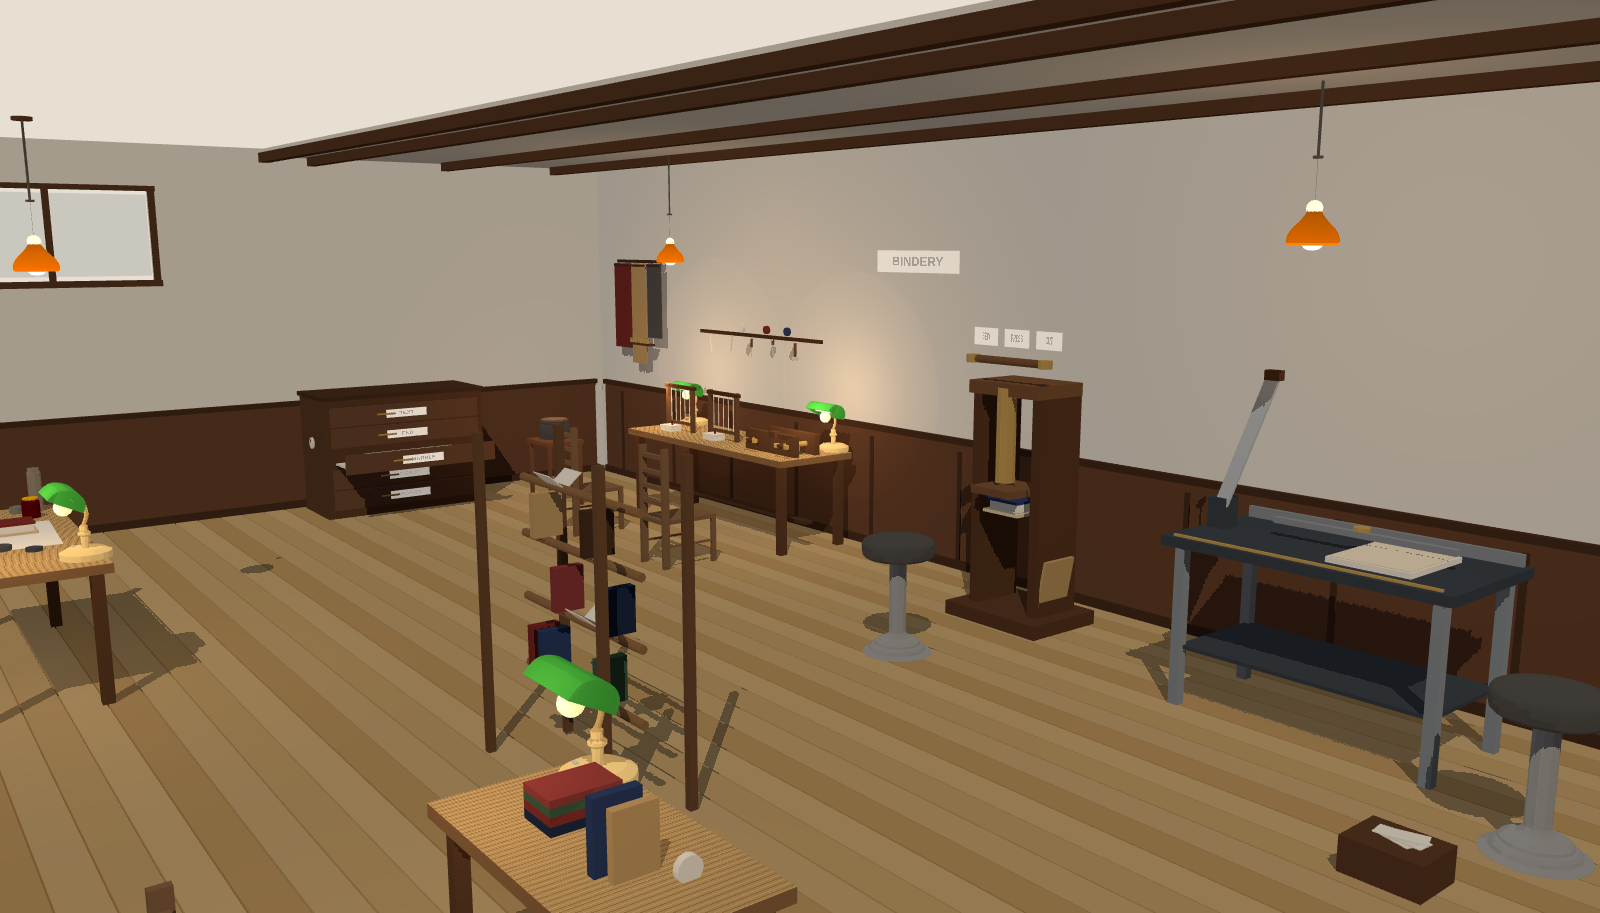
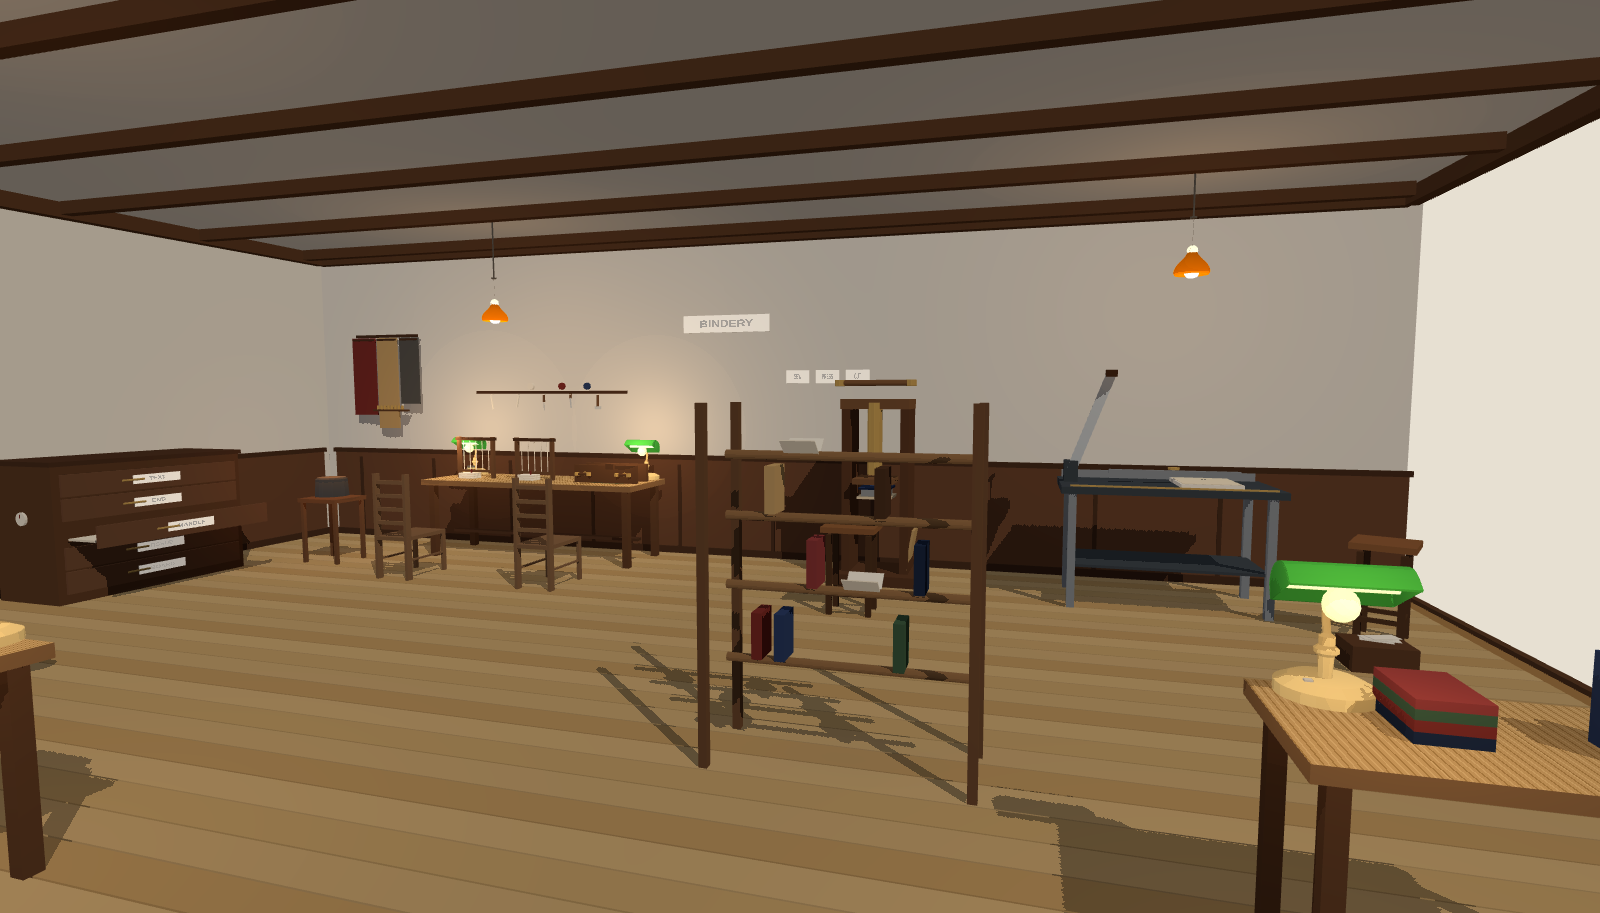
Close the bindery ceiling and replace the cafe stools with four-leg work stools.
Establishing cameras now stand inside under a full lid. The press and the shear keep a plain wooden stool beside the work.

diff --git a/experiments/indoor30-20261113/bookbinding-atelier/atelier.js b/experiments/indoor30-20261113/bookbinding-atelier/atelier.js
@@ -146,14 +146,50 @@ function clerestory(g, W) {
 }
 
 function ceiling(g, W, D, H) {
-  const slab = addBox(g, W - 0.5, 0.06, 3.15, toon('#f6f1e6'), -0.15, H - 0.04, -2.05);
+  const plaster = toon('#f3eee6');
+  const slab = addBox(g, W, 0.07, D, plaster, 0, H - 0.035, 0);
   slab.userData.noReceive = true;
   quiet(slab);
   const beam = toon('#5c3d28');
-  for (const z of [-3.15, -2.05, -0.85]) {
-    quiet(addBox(g, W - 0.8, 0.09, 0.07, beam, -0.15, H - 0.1, z));
+  const beamY = H - 0.12;
+  for (const z of [-3.45, -2.35, -1.25, -0.15, 0.95, 2.05]) {
+    quiet(addBox(g, W - 0.36, 0.1, 0.08, beam, 0, beamY, z));
   }
-  quiet(addBox(g, W - 0.5, 0.08, 0.08, beam, -0.15, H - 0.08, -0.5));
+  quiet(addBox(g, W - 0.2, 0.14, 0.1, beam, 0, beamY, -D / 2 + 0.1));
+  quiet(addBox(g, W - 0.2, 0.14, 0.1, beam, 0, beamY, D / 2 - 0.1));
+  quiet(addBox(g, 0.1, 0.14, D - 0.24, beam, -W / 2 + 0.12, beamY, 0));
+  quiet(addBox(g, 0.1, 0.14, D - 0.24, beam, W / 2 - 0.1, beamY, 0));
+}
+
+function sectionSkirt(g, W, D) {
+  const wood = toon('#5a3c28');
+  quiet(addBox(g, W + 0.06, 0.1, 0.05, wood, 0, -0.02, D / 2 + 0.012));
+  quiet(addBox(g, 0.05, 0.1, D + 0.06, wood, W / 2 + 0.012, -0.02, 0));
+}
+
+function workStool(g, spec) {
+  const root = new THREE.Group();
+  root.name = spec.id;
+  const seatH = spec.seat;
+  const wood = toon('#8a5a36');
+  const dark = toon('#4e3422');
+  addBox(root, 0.38, 0.04, 0.34, wood, 0, seatH - 0.02, 0);
+  const ix = 0.14;
+  const iz = 0.11;
+  const legH = seatH - 0.06;
+  for (const sx of [-1, 1]) {
+    for (const sz of [-1, 1]) {
+      addBox(root, 0.038, legH, 0.038, dark, sx * ix, legH / 2, sz * iz);
+    }
+  }
+  addBox(root, ix * 2, 0.026, 0.026, dark, 0, 0.16, -iz);
+  addBox(root, ix * 2, 0.026, 0.026, dark, 0, 0.16, iz);
+  addBox(root, 0.026, 0.026, iz * 2, dark, -ix, 0.16, 0);
+  addBox(root, 0.026, 0.026, iz * 2, dark, ix, 0.16, 0);
+  root.position.set(spec.position[0], spec.position[1], spec.position[2]);
+  root.rotation.y = spec.rotationY || 0;
+  g.add(root);
+  addContact(g, spec.position[0], spec.position[2], 0.4, 0.36, 0.2);
 }
 
 function sewingFrame(g, x, z, top) {
@@ -238,6 +274,7 @@ function benchTools(g, bench) {
   for (const [dx, color] of [[-0.35, '#f4efe4'], [0.0, '#7a2e2a'], [0.28, '#2c3d66']]) {
     const spool = addCyl(g, 0.034, 0.034, 0.028, toon(color), bench.x + dx, spoolY, z + 0.02, 12);
     spool.rotation.x = Math.PI / 2;
+    quiet(spool);
   }
 }
 
@@ -595,14 +632,10 @@ function lampGlows(g, layout) {
     if (inst.kind !== 'pendant_lamp') continue;
     const spec = layout.assets.pendant_lamp;
     const y0 = inst.position[1] + spec.targetHeight;
-    const underSlab = inst.position[2] < -0.55;
-    const y1 = underSlab ? layout.meta.room.height - 0.12 : y0 + 0.42;
+    const y1 = layout.meta.room.height - 0.08;
     if (y1 <= y0 + 0.05) continue;
     const cord = addCyl(g, 0.006, 0.006, y1 - y0, toon('#2c2826'), inst.position[0], (y0 + y1) / 2, inst.position[2], 6);
     quiet(cord);
-    if (!underSlab) {
-      quiet(addCyl(g, 0.05, 0.05, 0.02, toon('#5c3d28'), inst.position[0], y1, inst.position[2], 8));
-    }
     const bulb = new THREE.Mesh(
       new THREE.SphereGeometry(0.035, 10, 8),
       toon('#fff6dc', { emissive: '#ffe6b0', emissiveIntensity: 0.8 }),
@@ -628,7 +661,6 @@ function foliage(g, inst) {
 function contactsForSeats(g, layout) {
   const footprints = {
     dining_chair: [0.42, 0.48],
-    bar_stool: [0.42, 0.42],
     flowerpot: [0.28, 0.28],
   };
   for (const inst of layout.instances) {
@@ -644,6 +676,7 @@ function makeShell(layout) {
     leftOpening: { z0: 0.4, z1: 2.65, y0: 2.05, y1: 2.78 },
   });
   floorPlanks(g, W, D);
+  sectionSkirt(g, W, D);
   wainscot(g, W, D);
   clerestory(g, W);
   ceiling(g, W, D, H);
@@ -663,6 +696,7 @@ function makeProcedural(layout) {
   leatherAndStove(g, layout);
   ticketsAndSign(g, layout);
   lampGlows(g, layout);
+  for (const stool of layout.meta.workStools) workStool(g, stool);
   foliage(g, layout.instances.find((i) => i.id === 'plant'));
   contactsForSeats(g, layout);
   return g;

diff --git a/experiments/indoor30-20261113/bookbinding-atelier/scene_lib.js b/experiments/indoor30-20261113/bookbinding-atelier/scene_lib.js
@@ -400,6 +400,10 @@ export async function boot(opts) {
     const p = presets[camKey];
     camera.position.set(...p.position);
     controls.target.set(...p.target);
+    if (p.fov) {
+      camera.fov = p.fov;
+      camera.updateProjectionMatrix();
+    }
     controls.update();
   }
 

diff --git a/experiments/indoor30-20261113/bookbinding-atelier/tests/test_layout.py b/experiments/indoor30-20261113/bookbinding-atelier/tests/test_layout.py
@@ -24,8 +24,6 @@ FORBIDDEN = {
 SEATS = {
     "chair_sew_a",
     "chair_sew_b",
-    "stool_press",
-    "stool_cut",
     "chair_forward",
     "chair_pack",
 }
@@ -89,7 +87,11 @@ def test_proportions():
     assert stations["guillotine"]["top"] - stations["sewing"]["top"] > 0.12
     assets = LAYOUT["assets"]
     assert 0.84 <= assets["dining_chair"]["targetHeight"] <= 0.96
-    assert 0.62 <= assets["bar_stool"]["targetHeight"] <= 0.76
+    assert "bar_stool" not in assets
+    stools = LAYOUT["meta"]["workStools"]
+    assert {s["id"] for s in stools} == {"stool_press", "stool_cut"}
+    for stool in stools:
+        assert 0.58 <= stool["seat"] <= 0.7
     assert 0.32 <= assets["library_lamp"]["targetHeight"] <= 0.46
     assert assets["pendant_lamp"]["targetHeight"] <= 0.5
     assert assets["jam_jar"]["targetHeight"] < 0.16
@@ -117,13 +119,22 @@ def test_instances_and_facing():
         assert 0 <= y < room["height"] - 0.2, inst["id"]
         if "faces" not in inst:
             continue
-        tx, tz = inst["faces"]
-        dx, dz = tx - x, tz - z
-        dist = math.hypot(dx, dz)
-        assert 0.55 < dist < 1.6, (inst["id"], round(dist, 3))
-        fx, fz = forward(inst.get("rotationY", 0))
-        dot = (fx * dx + fz * dz) / dist
-        assert dot > 0.85, (inst["id"], round(dot, 3))
+        assert_faces(inst["id"], x, z, inst.get("rotationY", 0), inst["faces"])
+    for stool in LAYOUT["meta"]["workStools"]:
+        x, _, z = stool["position"]
+        assert -half_w + 0.12 < x < half_w - 0.12, stool["id"]
+        assert -half_d + 0.15 < z < half_d - 0.15, stool["id"]
+        assert_faces(stool["id"], x, z, stool.get("rotationY", 0), stool["faces"])
+
+
+def assert_faces(name, x, z, yaw, faces):
+    tx, tz = faces
+    dx, dz = tx - x, tz - z
+    dist = math.hypot(dx, dz)
+    assert 0.55 < dist < 1.6, (name, round(dist, 3))
+    fx, fz = forward(yaw)
+    dot = (fx * dx + fz * dz) / dist
+    assert dot > 0.85, (name, round(dot, 3))
 
 
 def test_clearance():
@@ -137,14 +148,20 @@ def test_clearance():
     seat_boxes = {
         "chair_sew_a": "sewing",
         "chair_sew_b": "sewing",
-        "stool_press": "press",
-        "stool_cut": "guillotine",
         "chair_forward": "forward",
         "chair_pack": "packing",
     }
     for seat, station in seat_boxes.items():
         x, _, z = by_id[seat]["position"]
         assert not inside(floor[station], x, z, pad=0.05), seat
+    stools = {s["id"]: s for s in LAYOUT["meta"]["workStools"]}
+    for seat, station in (("stool_press", "press"), ("stool_cut", "guillotine")):
+        x, _, z = stools[seat]["position"]
+        assert not inside(floor[station], x, z, pad=0.05), seat
+    shear = stations["guillotine"]
+    cut = stools["stool_cut"]
+    # Parked at the right-hand end, clear of the bed and the blade swing.
+    assert cut["position"][0] - 0.19 > shear["x"] + shear["spanX"] / 2 + 0.05
     drawers = stations["drawers"]
     forward = stations["forward"]
     wet_gap = math.hypot(drawers["x"] - forward["x"], drawers["z"] - forward["z"])
@@ -154,12 +171,23 @@ def test_clearance():
     assert stations["guillotine"]["top"] >= 0.88
 
 
+def indoors(pos, room):
+    x, y, z = pos
+    half_w = room["width"] / 2
+    half_d = room["depth"] / 2
+    assert -half_w + 0.15 < x < half_w - 0.15, pos
+    assert -half_d + 0.15 < z < half_d - 0.15, pos
+    assert 1.15 < y < room["height"] - 0.28, pos
+
+
 def test_cameras_and_lights():
-    assert LAYOUT["camera"]["position"][2] > LAYOUT["meta"]["room"]["depth"] / 2
+    room = LAYOUT["meta"]["room"]
+    indoors(LAYOUT["camera"]["position"], room)
+    assert LAYOUT["camera"]["target"][2] < LAYOUT["camera"]["position"][2] - 2.5
     for key in ("corner", "close", "detail"):
         assert key in LAYOUT["cameraPresets"]
         pos = LAYOUT["cameraPresets"][key]["position"]
-        assert pos[1] > 0.4
+        indoors(pos, room)
     points = {p["id"] for p in LAYOUT["lights"]["points"]}
     for key in ("task_sew_a", "task_sew_b", "task_forward", "pend_sew", "pend_cut", "stove"):
         assert key in points, key

diff --git a/experiments/indoor30-20261113/bookbinding-atelier/refs/GAP.md b/experiments/indoor30-20261113/bookbinding-atelier/refs/GAP.md
@@ -1,6 +1,6 @@
 # GAP — bookbinding atelier
 
-The catalog has chairs, a low stool, banker lamps, pendants, jars, a mug, a thermos, and a flowerpot. It does not have a sewing frame, lying press, plough, standing press, guillotine, flat file, drying rack, or finishing stove.
+The catalog has chairs, a tulip-base bar stool, banker lamps, pendants, jars, a mug, a thermos, and a flowerpot. It does not have a sewing frame, lying press, plough, standing press, guillotine, flat file, drying rack, finishing stove, or a plain four-leg work stool.
 
 Closed in this scene:
 
@@ -17,7 +17,9 @@ Remaining:
 - Frames, presses, the shear, drawers, hides, and the stove are toon solids, not scanned tools. Hides are flat panels. The plough is a block and a blade, not a dovetailed sled.
 - Jam jars stand in for paste pots. The gold lid is the tell.
 - The banker lamp is a library lamp. A glow disc and an emissive tube make the shade read as a task light in toon and in unlit.
-- The bar stool's rubber is near-black in the bake. The toon and unlit paths lift that to charcoal so the foot does not drop out.
+- The press and the shear use procedural four-leg stools, seat 0.64 m. The catalog stool is a gray tulip base, so it stays out of this room. The shear stool sits at the right-hand end, clear of the bed.
+- The ceiling is a full plaster lid with beams that stop at the wall plates. Establishing cameras stand inside, under that lid. The front and the right stay open as the cutaway, so a strip of the clear color still shows at that edge.
+- The tool rail, folders, and thread spools do not cast. A hard shadow from the frames and the lamps still falls on the wainscot.
 - Contact shadows are radial decals. The hard shadow map is biased to limit acne on the bench tops; thin cords do not cast.
 - Clerestory glass is a transparent toon pane. It does not refract.
 - The guillotine is a hand board shear in the raised position, not a powered paper cutter. The blade is a slab, so the edge is not a knife line.

diff --git a/experiments/indoor30-20261113/bookbinding-atelier/ATTRIBUTIONS.md b/experiments/indoor30-20261113/bookbinding-atelier/ATTRIBUTIONS.md
@@ -1,13 +1,12 @@
 # Attributions
 
-Catalog meshes are reused by relative path. No GLB is copied into this folder. The sewing frames, lying press, standing press, guillotine, flat files, drying rack, leather hides, finishing stove, benches, and architecture are local Three.js geometry in `atelier.js`.
+Catalog meshes are reused by relative path. No GLB is copied into this folder. The sewing frames, lying press, standing press, guillotine, flat files, drying rack, leather hides, finishing stove, four-leg work stools, benches, and architecture are local Three.js geometry in `atelier.js`.
 
 Hugging Face dataset: [Sandflow/sand3d-objaverse](https://huggingface.co/datasets/Sandflow/sand3d-objaverse) (CC-BY programs).
 
 - **Wooden Dining Chair** (`objaverse-5e1f7a56da4a4dab8ad64efd46ed9d9f`) — by vikki0612, CC-BY-4.0. File: `workshop/assets/dining_chair__5e1f7a56da4a.glb`
 - **Library Desk Lamp** (`objaverse-06accd4e0351480e8c4eb2f28fadaa35`) — "Library Desk Lamp" by oriolescolarcano, CC-BY-4.0. File: `cowork/assets/library_lamp__06accd4e0351.glb`
 - **pendant_lamp** — "Modern ceiling lamp" by krolzuzannapl, https://sketchfab.com/3d-models/1b528c6ab04e42f990105db142cd71bd, CC-BY-4.0. File: `workshop/assets/pendant_lamp__1b528c6ab04e.glb`
-- **bar_stool** — "Bar stool lowpoly" by vaporclaws, https://sketchfab.com/3d-models/319fcb56afe845caae5464b129c99633, CC-BY-4.0. File: `cafe/assets/bar_stool__319fcb56afe8.glb`
 - **jam_jar** — "jam jar" by jwpthecoolguy2, https://sketchfab.com/3d-models/4e43eb29aa144bdbada1ec500d218a81, CC-BY-4.0. File: `cafe/assets/jam_jar__4e43eb29aa14.glb`. Used as paste and glue pots.
 - **cup_mug** — "Stylized Coffee Cup" by n30hrtgdv, https://sketchfab.com/3d-models/6da6f7f87b8d4706a563331657d6b5c3, CC-BY-4.0. File: `cafe/assets/cup_mug__6da6f7f87b8d.glb`
 - **thermos** — "Thermos" by Platon_Debik, https://sketchfab.com/3d-models/c85ee7b8828b44998bb1cec3971424ec, CC-BY-4.0. File: `cafe/assets/thermos__c85ee7b8828b.glb`. Water for paste.

diff --git a/experiments/indoor30-20261113/bookbinding-atelier/refs/SOURCES.md b/experiments/indoor30-20261113/bookbinding-atelier/refs/SOURCES.md
@@ -21,7 +21,7 @@ Existing GLBs were measured from their accessor bounds and checked against rende
 Selected, by relative path, because the long axis is height and the footprint stays human-scaled after `targetHeight`:
 
 - Dining chair, overall 0.90 m. Front legs are the local +Z side, so a yaw of π faces a bench on −Z.
-- Bar stool, overall 0.68 m, for the standing press and the guillotine.
+- The cafe bar stool was measured and left out of the standing stations. Its tulip base reads as a counter stool. The press and the shear use plain four-leg work stools built in the scene, seat 0.64 m, parked beside the work.
 - Banker's lamp, overall 0.38 m. The shade group sits on local −Z; yaw π opens it toward the sitter. The `light_tube` mesh is marked emissive.
 - Pendant, overall 0.40 m. The `bulb` mesh is marked emissive. A short cord continues it to the beam.
 - Jam jars at 0.12 m as paste pots, one mug, one thermos, one flowerpot.

diff --git a/experiments/indoor30-20261113/bookbinding-atelier/README.md b/experiments/indoor30-20261113/bookbinding-atelier/README.md
@@ -1,6 +1,6 @@
 # Bookbinding atelier (Three.js + sand3d)
 
-Cutaway hand bindery. Sewing frames and a lying press share a seated bench. A standing press, a board-shear guillotine, flat-file paper drawers, a drying rack, and a leather / finishing-stove wall are separate stations. Paste stays on the forwarding bench, away from the paper.
+Cutaway hand bindery under a full ceiling. Sewing frames and a lying press share a seated bench. A standing press, a board-shear guillotine, flat-file paper drawers, a drying rack, and a leather / finishing-stove wall are separate stations. Four-leg work stools sit beside the press and the shear. Paste stays on the forwarding bench, away from the paper. Establishing cameras stand inside the room.
 
 Catalog GLBs are referenced from `workshop/`, `cafe/`, and `cowork/`. Three.js is the shared workshop vendor. Nothing in this folder copies those files.
 
